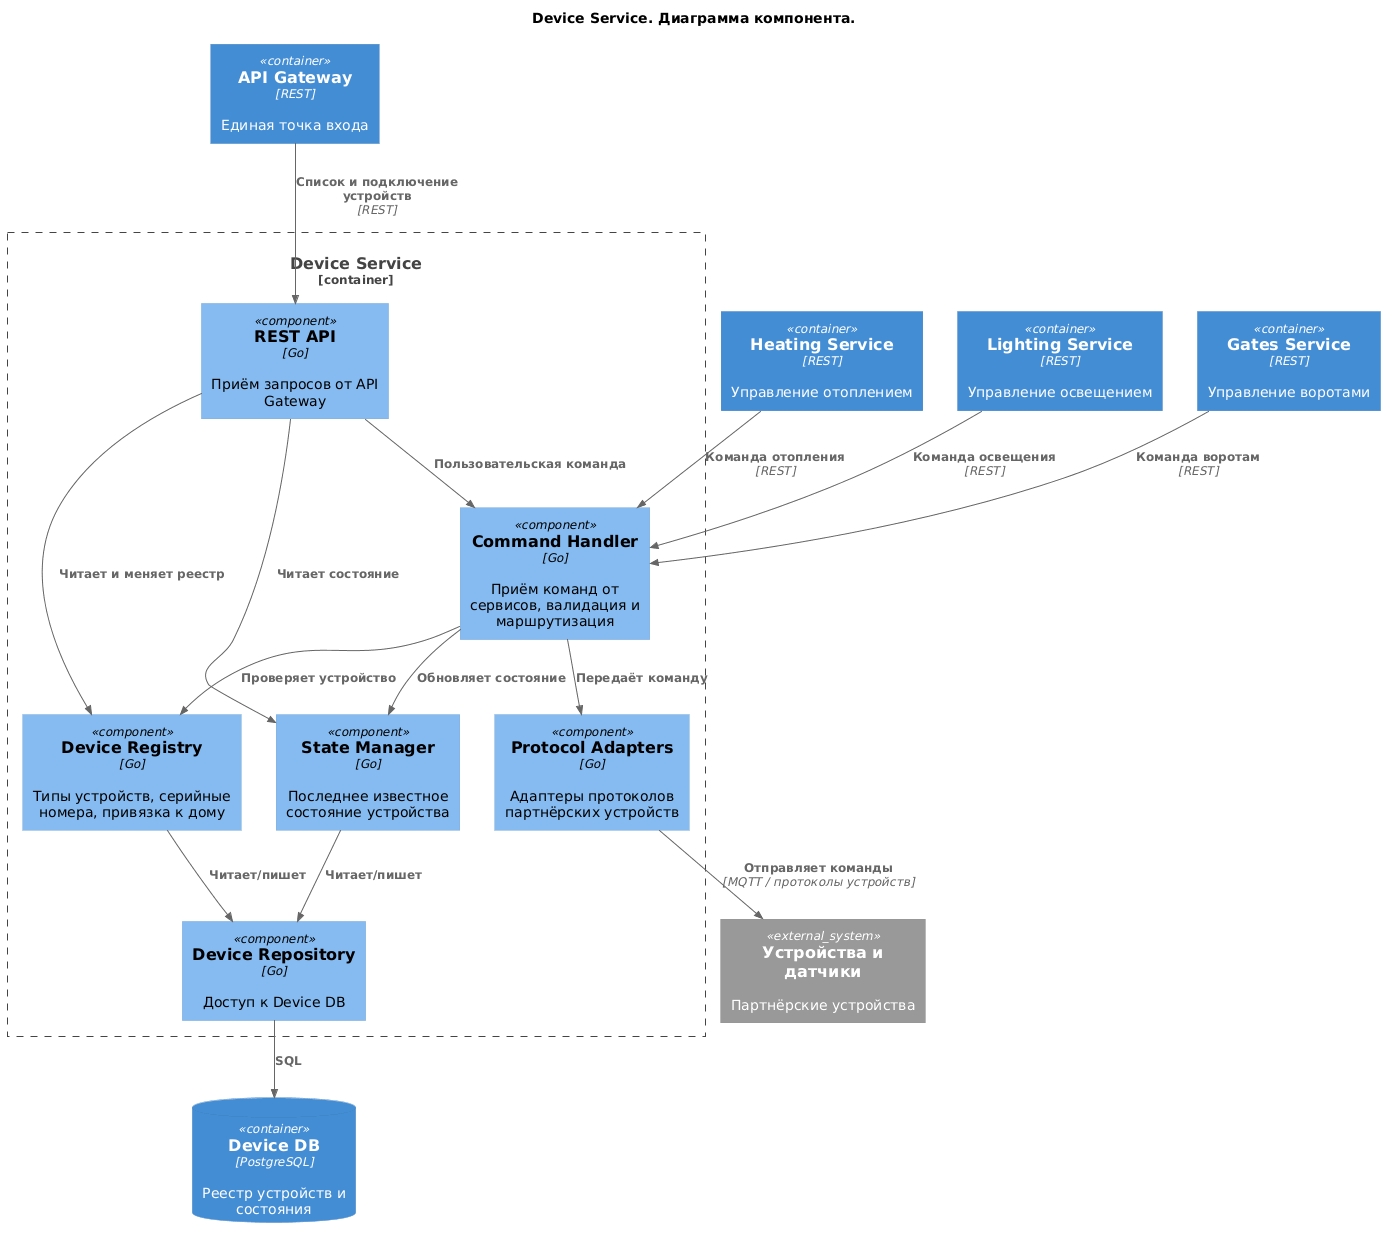
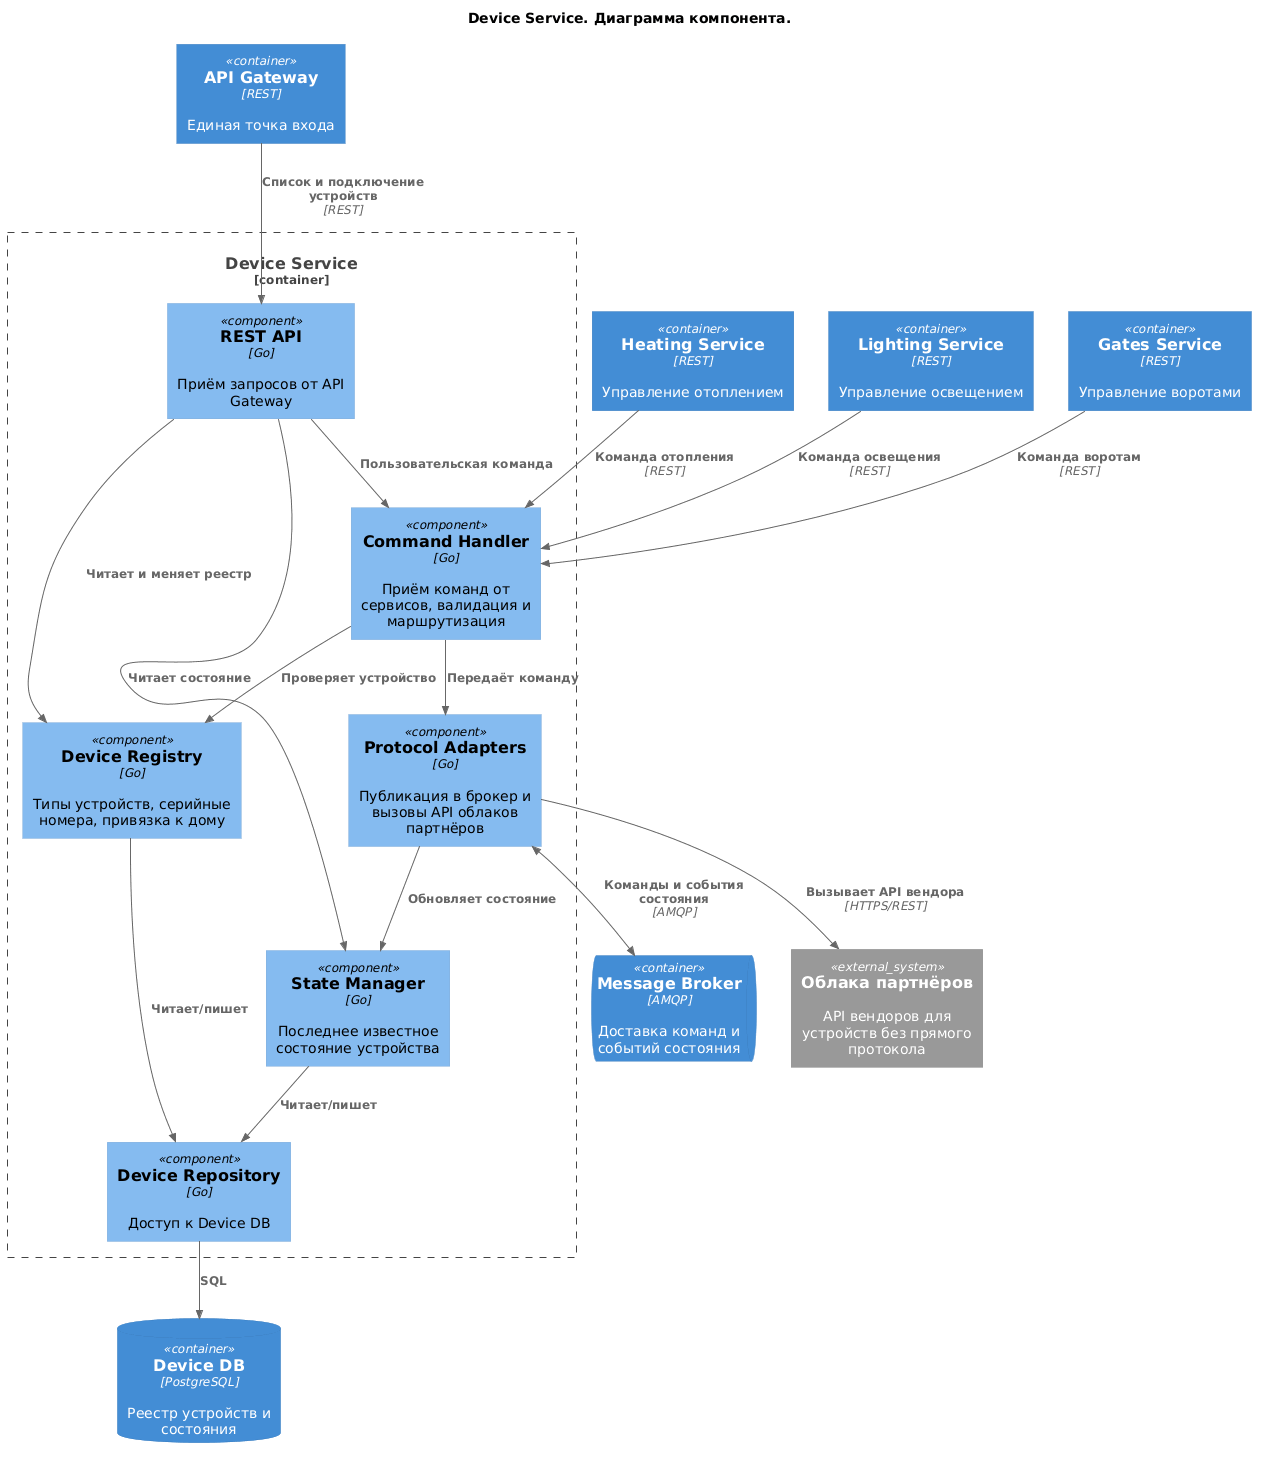
Improve task 2 diagrams

diff --git a/README.md b/README.md
@@ -94,7 +94,11 @@ Heating Service:
 
 **Диаграмма кода (Code)**
 
-Добавьте одну диаграмму или несколько.
+!!! Согласно описанию задачи в Яндекс Практикум, разрешено вместо диаграммы кода использовать диаграмму последовательности.
+На мой взгляд диаграмма последовательности имеет большую ценность, чем диаграмма кода.
+
+![Device Service. Команда устройству. Диаграмма последовательности.](./docs/code-command-sequence.png)
+Исходник: [`docs/code-command-sequence.puml`](./docs/code-command-sequence.puml)
 
 # Задание 3. Разработка ER-диаграммы
 
